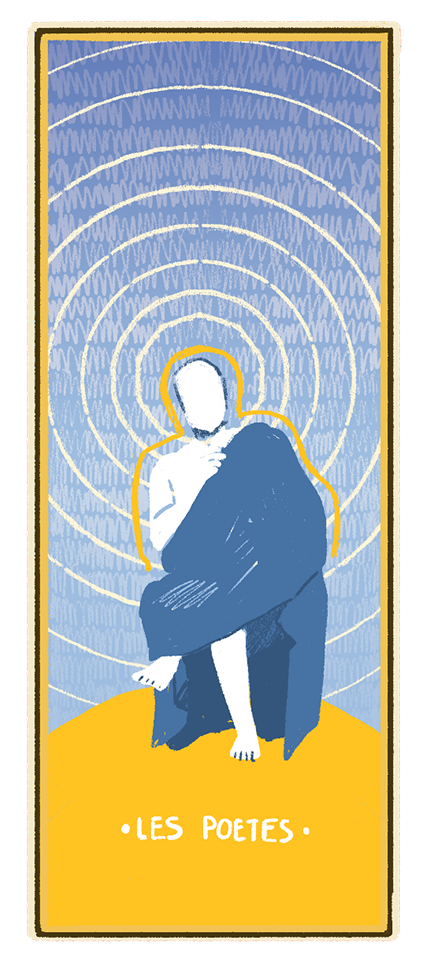
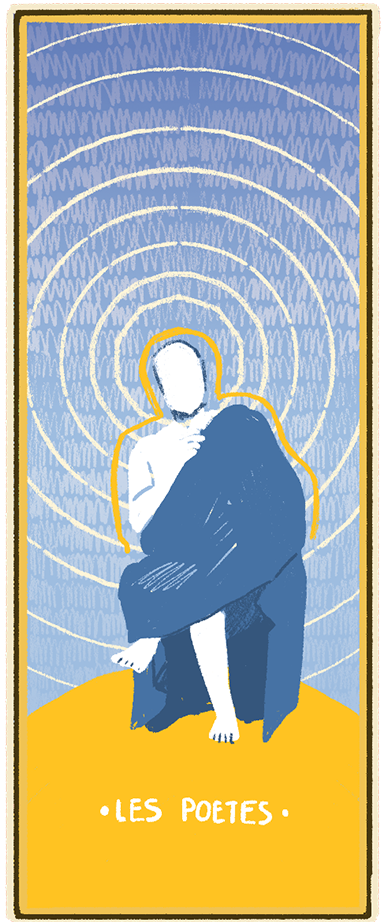
Updated graphics

diff --git a/Cuivre/Code/Screens/EndScreen.cs b/Cuivre/Code/Screens/EndScreen.cs
@@ -19,17 +19,17 @@ namespace Cuivre.Code.Screens
         private Rectangle menuRect;
         private Rectangle againRect;
 
-        private Dictionary<string, string> endTexts = new Dictionary<string, string>()
-        {
-            { "gameover", "Les Romains finissent par rejeter les valeurs et les rites apportes par Cybele. Des lois sont promulgues par les differents empereurs afin de reprimer le culte. Cybele finit par etre oubliee a Rome et n'est plus honoree." },
-            { "Senateurs", "Le culte de Cybele devient un culte officiel de l'empire. Les empereurs l'incluent dans leurs projets de reforme religieuse et culturelle. Elle est utilisee dans des recits et discours officiels en tant que deesse eminemment romaine, et on finit meme par affirmer qu'elle etait romaine depuis le debut. On raconte qu'elle n'avait pas suivi Enee lorsqu'il avait fui la ville de Troie en ruine pour aller fonder Rome, mais qu'elle attendait le bon moment pour revenir dans sa ville de coeur. \n Cette fin s'est reellement produite au cours de l'Empire romain. Mais ce n'est qu'une partie de la realite. Pour en decouvrir plus..." },
-            { "Philosophes", "Le culte de Cybele et les valeurs qu'elle transmet sont reutilises a foison dans la litterature philosophique. Les penseurs developpent meme de nouveaux aspects de Cybele qu'ils adaptent a leur philosophie. Lucrece la decrit comme celle qui contient en elle les elements fondamentaux du monde. Il l'utilise pour rendre plus ludiques certains concepts philosophiques. Cybele est enfin honoree comme la Terre Mere, celle qui est a l'origine des dieux et des hommes. \n Cette fin s'est reellement produite au cours de l'Empire romain. Mais ce n'est qu'une partie de la realite. Pour en decouvrir plus..." },
-            { "Militaires", "Cybele devient un reel embleme de la Victoire. Elle est percue comme celle qui a aide Rome a gagner les guerres puniques contre Carthage. Lorsque son temple est construit, il se situe sur le Palatin, l'une des collines les plus importantes de Rome, juste a côte du sanctuaire de la Victoire. \n Cette fin s'est reellement produite au cours de l'Empire romain. Mais ce n'est qu'une partie de la realite. Pour en decouvrir plus..." },
-            { "Amants", "Les serviteurs de Cybele perdent leur image de fanatiques a la sexualite devoyee, et sont de mieux en mieux consideres. L'arrivee de la deesse permet de s'interroger sur la conception de virilite romaine et elle influence les esprits, meme inconsciemment. Les Romains percoivent Cybele et ses serviteurs comme plus acceptables et moins choquants. \n Cette fin s'est reellement produite au cours de l'Empire romain. Mais ce n'est qu'une partie de la realite. Pour en decouvrir plus..." },
-            { "Peuple", "Alors qu'auparavant certains rites en l'honneur de Cybele etaient interdits aux citoyens romains, ils peuvent desormais participer pleinement au culte. Cybele est consideree comme une deesse romaine a part entiere, et fait parfois l'objet de cultes personnels dans les foyers. \n Cette fin s'est reellement produite au cours de l'Empire romain. Mais ce n'est qu'une partie de la realite. Pour en decouvrir plus..." },
-        };
+        //private Dictionary<string, string> endTexts = new Dictionary<string, string>()
+        //{
+        //    { "gameover", "Les Romains finissent par rejeter les valeurs et les rites apportes par Cybele. Des lois sont promulgues par les differents empereurs afin de reprimer le culte. Cybele finit par etre oubliee a Rome et n'est plus honoree." },
+        //    { "Senateurs", "Le culte de Cybele devient un culte officiel de l'empire. Les empereurs l'incluent dans leurs projets de reforme religieuse et culturelle. Elle est utilisee dans des recits et discours officiels en tant que deesse eminemment romaine, et on finit meme par affirmer qu'elle etait romaine depuis le debut. On raconte qu'elle n'avait pas suivi Enee lorsqu'il avait fui la ville de Troie en ruine pour aller fonder Rome, mais qu'elle attendait le bon moment pour revenir dans sa ville de coeur. \n Cette fin s'est reellement produite au cours de l'Empire romain. Mais ce n'est qu'une partie de la realite. Pour en decouvrir plus..." },
+        //    { "Philosophes", "Le culte de Cybele et les valeurs qu'elle transmet sont reutilises a foison dans la litterature philosophique. Les penseurs developpent meme de nouveaux aspects de Cybele qu'ils adaptent a leur philosophie. Lucrece la decrit comme celle qui contient en elle les elements fondamentaux du monde. Il l'utilise pour rendre plus ludiques certains concepts philosophiques. Cybele est enfin honoree comme la Terre Mere, celle qui est a l'origine des dieux et des hommes. \n Cette fin s'est reellement produite au cours de l'Empire romain. Mais ce n'est qu'une partie de la realite. Pour en decouvrir plus..." },
+        //    { "Militaires", "Cybele devient un reel embleme de la Victoire. Elle est percue comme celle qui a aide Rome a gagner les guerres puniques contre Carthage. Lorsque son temple est construit, il se situe sur le Palatin, l'une des collines les plus importantes de Rome, juste a côte du sanctuaire de la Victoire. \n Cette fin s'est reellement produite au cours de l'Empire romain. Mais ce n'est qu'une partie de la realite. Pour en decouvrir plus..." },
+        //    { "Amants", "Les serviteurs de Cybele perdent leur image de fanatiques a la sexualite devoyee, et sont de mieux en mieux consideres. L'arrivee de la deesse permet de s'interroger sur la conception de virilite romaine et elle influence les esprits, meme inconsciemment. Les Romains percoivent Cybele et ses serviteurs comme plus acceptables et moins choquants. \n Cette fin s'est reellement produite au cours de l'Empire romain. Mais ce n'est qu'une partie de la realite. Pour en decouvrir plus..." },
+        //    { "Peuple", "Alors qu'auparavant certains rites en l'honneur de Cybele etaient interdits aux citoyens romains, ils peuvent desormais participer pleinement au culte. Cybele est consideree comme une deesse romaine a part entiere, et fait parfois l'objet de cultes personnels dans les foyers. \n Cette fin s'est reellement produite au cours de l'Empire romain. Mais ce n'est qu'une partie de la realite. Pour en decouvrir plus..." },
+        //};
 
-        private string endText;
+        //private string endText;
 
         public EndScreen(bool victory, string highGauge = "")
         {
@@ -50,14 +50,14 @@ namespace Cuivre.Code.Screens
             ratio = Game1.Textures["bouton_quitter"].Height / (float)Game1.Textures["bouton_menu"].Width;
             menuRect = new Rectangle(Game1.WIDTH / 2 - 7 * Game1.HEIGHT / 36, Game1.HEIGHT / 2 + h + GameScreen.leftOffset, Game1.WIDTH / 5, (int)(ratio * Game1.WIDTH / 5));
 
-            if (!victory) endText = endTexts["gameover"];
-            else endText = endTexts[highGauge];
+            //if (!victory) endText = endTexts["gameover"];
+            //else endText = endTexts[highGauge];
         }
 
         public override void Draw(GameTime gameTime, SpriteBatch spriteBatch)
         {
             string texture = "menu_";
-            if (victory) texture += "victoire";
+            if (victory) texture += "victoire_" + highGauge;
             else texture += "DEFAITE";
             spriteBatch.Draw(Game1.Textures[texture], new Rectangle(0, 0, Game1.WIDTH, Game1.HEIGHT), Color.White);
 
@@ -69,12 +69,12 @@ namespace Cuivre.Code.Screens
             if (hoverAgain) again = new Rectangle(againRect.Location + new Point(0, -10), againRect.Size + new Point(20, 20));
             spriteBatch.Draw(Game1.Textures["bouton_rejouer"], again, Color.White);
 
-            int y = Game1.HEIGHT / 4;
-            foreach (string line in Utils.TextWrap.Wrap(endText, Game1.WIDTH / 2, Game1.font))
-            {
-                spriteBatch.DrawString(Game1.font, line, new Vector2(Game1.WIDTH / 4, y), Color.Black);
-                y += (int)Game1.font.MeasureString("l").Y + 5;
-            }
+            //int y = Game1.HEIGHT / 4;
+            //foreach (string line in Utils.TextWrap.Wrap(endText, Game1.WIDTH / 2, Game1.font))
+            //{
+            //    spriteBatch.DrawString(Game1.font, line, new Vector2(Game1.WIDTH / 4, y), Color.Black);
+            //    y += (int)Game1.font.MeasureString("l").Y + 5;
+            //}
         }
 
         public override void Update(GameTime gameTime)

diff --git a/Cuivre/Code/Screens/GameScreen.cs b/Cuivre/Code/Screens/GameScreen.cs
@@ -60,7 +60,7 @@ namespace Cuivre.Code.Screens
                 }}),
 
             //Methode de miracle appelée dans le SpendActionPoints pour tenir compte des PA
-            new Button(leftOffset + 2 * (cardWidth + betweenOffset), Game1.HEIGHT / 6, cardWidth, (int)(cardWidth * ratio), Game1.Textures["card_miracle"], screen => {
+            new Button(leftOffset + 2 * (cardWidth + betweenOffset), Game1.HEIGHT / 6, cardWidth, (int)(cardWidth * ratio), Game1.Textures["carte_miracle_v2"], screen => {
                 ((GameScreen)screen).SpendActionPoints(-1);
                 ((GameScreen)screen).miracle = true;
                 ((GameScreen)screen).curLetter = 0;
@@ -82,20 +82,20 @@ namespace Cuivre.Code.Screens
             //poetes
             new CollapseButton(leftOffset + cardWidth + betweenOffset, Game1.HEIGHT / 6, cardWidth, (int)(cardWidth * ratio), Game1.Textures["card_poetes"], Game1.Textures["card_poetes_verso"], true, new List<Button>
             {
-                new Button(leftOffset + cardWidth, leftCoords[0], cardWidth, leftCoords[1] - leftCoords[0], Game1.Textures["juvenal_vignette"], screen => {
+                new Button(leftOffset + cardWidth, leftCoords[0], cardWidth, leftCoords[1] - leftCoords[0], Game1.Textures["martial_vignette"], screen => {
+                ((GameScreen)screen).poets["Peuple"].Call();}, true),
+
+                new Button(leftOffset + cardWidth, rightCoords[1], cardWidth, leftCoords[2] - rightCoords[1], Game1.Textures["juvenal_vignette"], screen => {
                 ((GameScreen)screen).poets["Senateurs"].Call();}, true),
 
-                new Button(leftOffset + cardWidth, rightCoords[1], cardWidth, leftCoords[2] - rightCoords[1], Game1.Textures["lucrece_vignette"], screen => {
+                new Button(leftOffset + cardWidth, leftCoords[2], cardWidth, rightCoords[3] - rightCoords[2], Game1.Textures["lucrece_vignette"], screen => {
                 ((GameScreen)screen).poets["Philosophes"].Call();}, true),
 
-                new Button(leftOffset + cardWidth, leftCoords[2], cardWidth, rightCoords[3] - rightCoords[2], Game1.Textures["virgile_vignette"], screen => {
+                new Button(leftOffset + cardWidth, leftCoords[3], cardWidth, leftCoords[4] - leftCoords[3], Game1.Textures["virgile_vignette"], screen => {
                 ((GameScreen)screen).poets["Militaires"].Call();}, true),
 
-                new Button(leftOffset + cardWidth, leftCoords[3], cardWidth, leftCoords[4] - leftCoords[3], Game1.Textures["ovide_vignette"], screen => {
-                ((GameScreen)screen).poets["Amants"].Call();}, true),
-
-                new Button(leftOffset + cardWidth, rightCoords[4], cardWidth, leftCoords[5] - rightCoords[4], Game1.Textures["martial_vignette"], screen => {
-                ((GameScreen)screen).poets["Peuple"].Call();}, true)
+                new Button(leftOffset + cardWidth, rightCoords[4], cardWidth, leftCoords[5] - rightCoords[4], Game1.Textures["ovide_vignette"], screen => {
+                ((GameScreen)screen).poets["Amants"].Call();}, true)
             }, screen => { ((GameScreen)screen).SpendActionPoints(1); }),
 
             //bienfaits
@@ -432,7 +432,7 @@ namespace Cuivre.Code.Screens
 
             if (help)
             {
-                spriteBatch.Draw(Game1.Textures["tutorial_layout"], new Rectangle(0, 0, Game1.WIDTH, Game1.HEIGHT), Color.White);
+                spriteBatch.Draw(Game1.Textures["tutorial_v2"], new Rectangle(0, 0, Game1.WIDTH, Game1.HEIGHT), Color.White);
             }
             spriteBatch.Draw(Game1.Textures["bouton_help"], helpRectangle, Color.White);
 

diff --git a/Cuivre/Game1.cs b/Cuivre/Game1.cs
@@ -82,12 +82,13 @@ namespace Cuivre
             Musics.Add("M_Romain4", Content.Load<Song>("M_Romain4"));
             Musics.Add("M_Transition", Content.Load<Song>("M_Transition"));
 
-            List<string> textureNames = new List<string>() { "bouton_help", "bulle_poete", "card_bienfaits", "card_miracle_verso", "card_miracle", "card_oracle",
+            List<string> textureNames = new List<string>() { "bouton_help", "bulle_poete", "card_bienfaits", "card_miracle_verso", "carte_miracle_v2", "card_oracle",
                                                              "card_poetes_verso", "card_poetes", "fond", "stele_evenements", "baton_frise", "frise_cartouche", "frise_ornements_cotes",
-                                                             "icone_evenement", "bouton_jouer", "bouton_menu", "bouton_quitter", "bouton_rejouer", "fabriquer_icones",
-                                                             "gladiateurs", "nourriture", "processions religieuses", "theatre", "menu_debut", "menu_victoire", "tutorial_layout",
+                                                             "icone_evenement_v2", "bouton_jouer", "bouton_menu", "bouton_quitter", "bouton_rejouer", "fabriquer_icones",
+                                                             "gladiateurs", "nourriture", "processions religieuses", "theatre", "menu_debut", "tutorial_v2",
                                                              "menu_DEFAITE", "pannel_texte_debut", "pannel_texte_debut_1", "pannel_texte_debut_2", "pannel_texte_debut_3",
-                                                             "pannel_texte_debut_4", "pannel_texte_debut_5"};
+                                                             "pannel_texte_debut_4", "pannel_texte_debut_5", "menu_victoire_Senateurs", "menu_victoire_Amants",
+                                                             "menu_victoire_Militaires", "menu_victoire_Peuple", "menu_victoire_Philosophes" };
             List<string> temp = new List<string>() { "juvenal", "lucrece", "martial", "ovide", "virgile" };
             foreach (string name in temp)
             {

diff --git a/Cuivre/Code/Event.cs b/Cuivre/Code/Event.cs
@@ -40,11 +40,11 @@ namespace Cuivre.Code
         {
             if (!called && !explain)
             {
-                spriteBatch.Draw(Game1.Textures["icone_evenement"], new Rectangle(x - h, GameScreen.leftOffset - h / 2, 2 * h, 2 * h), Color.Green);
+                spriteBatch.Draw(Game1.Textures["icone_evenement_v2"], new Rectangle(x - h, GameScreen.leftOffset - h / 2, 2 * h, 2 * h), Color.White);
             }
             else
             {
-                spriteBatch.Draw(Game1.Textures["icone_evenement"], new Rectangle(x - h, GameScreen.betweenOffset - h / 2, 2 * h, 2 * h), Color.Green);
+                spriteBatch.Draw(Game1.Textures["icone_evenement_v2"], new Rectangle(x - h, GameScreen.betweenOffset - h / 2, 2 * h, 2 * h), Color.White);
             }
             
             if (called || explain)

diff --git a/Cuivre/Code/Button.cs b/Cuivre/Code/Button.cs
@@ -27,8 +27,9 @@ namespace Cuivre.Code
         {
             get
             {
-                int off = 2 * GameScreen.betweenOffset;
-                if (Hovered) return new Rectangle(x - off, y - off, w + 2 * off, h + 2 * off);
+                int off = GameScreen.betweenOffset;
+                int yOff = (int)((texture.Height / (float)texture.Width) * off);
+                if (Hovered) return new Rectangle(x - off, y - yOff, w + 2 * off, h + 2 * yOff);
                 return new Rectangle(x, y, w, h);
             }
         }
